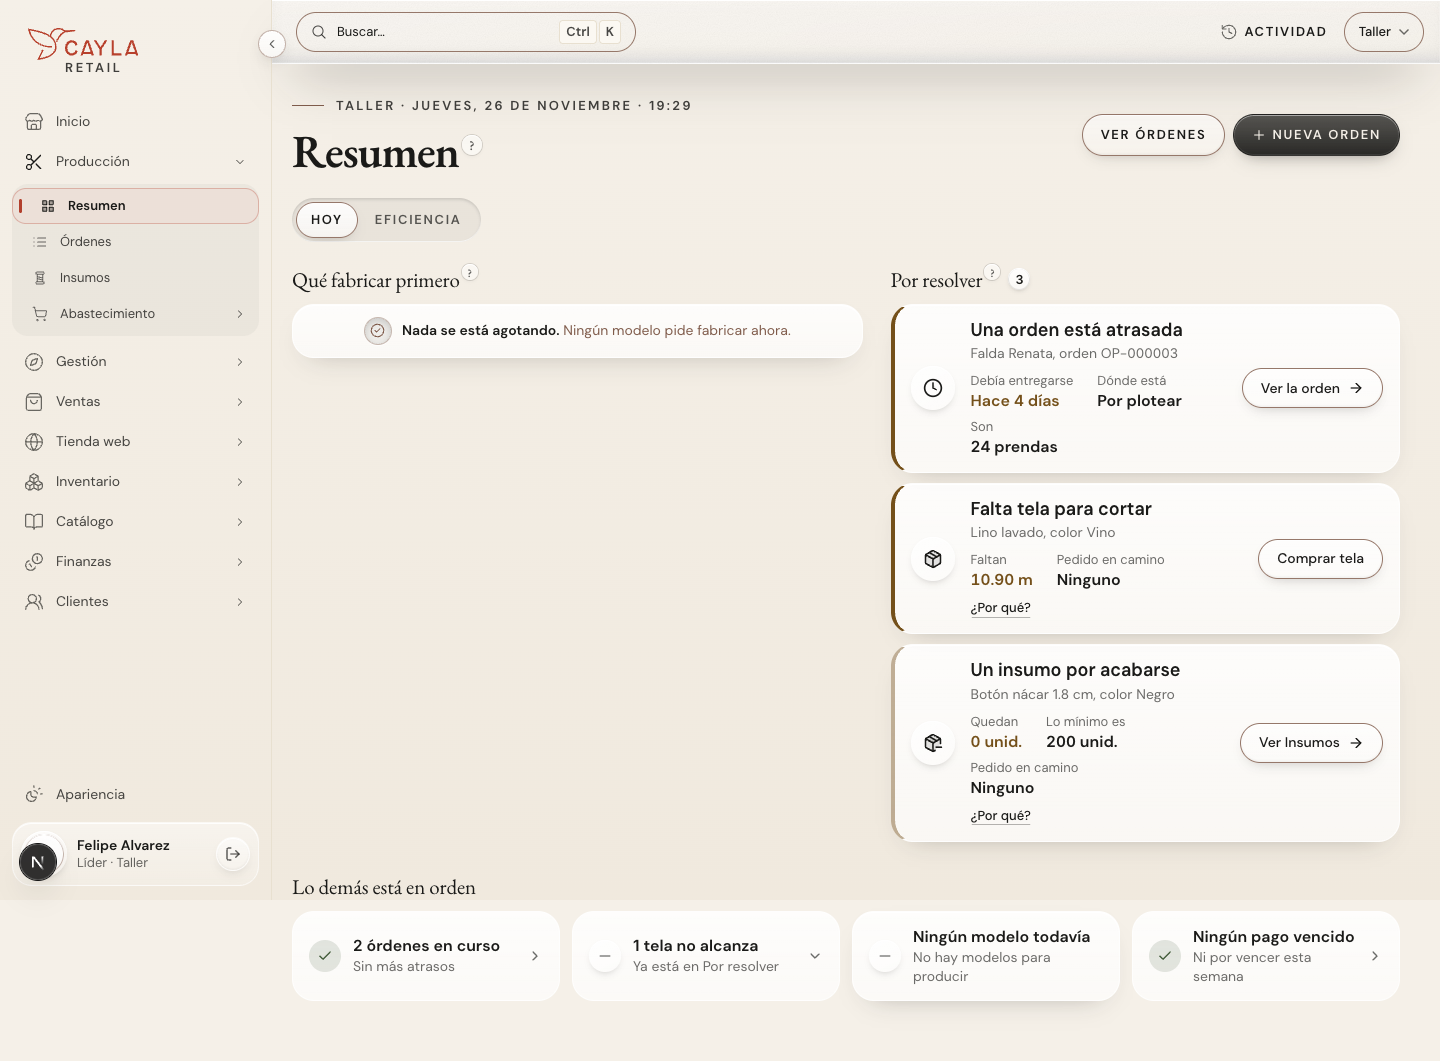
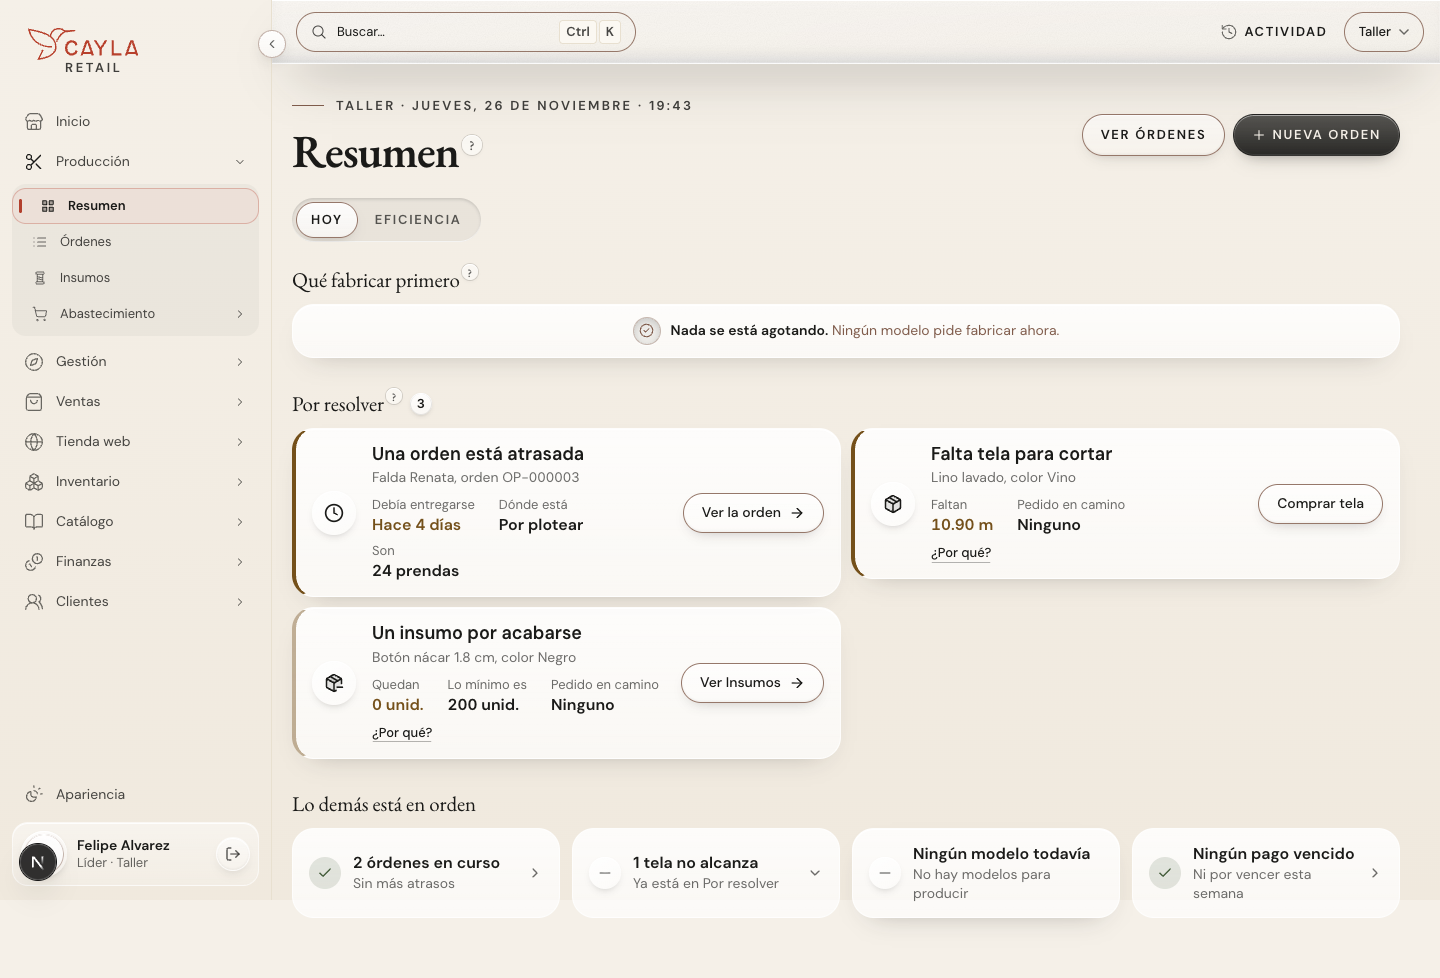
fix(produccion): el Resumen no deja un hueco cuando un bloque está vacío
Con «Qué fabricar primero» vacío y asuntos en «Por resolver» (o al revés), el aviso de una línea quedaba al lado de una columna alta.
Ahora los dos bloques comparten la fila solo si los dos tienen algo; si no, van uno bajo el otro y los asuntos se reparten de a dos.

diff --git a/apps/web/components/ResumenProduccionPanel.tsx b/apps/web/components/ResumenProduccionPanel.tsx
@@ -54,6 +54,9 @@ export function ResumenProduccionPanel({
   sede: string;
 }) {
   const primero = queFabricarPrimero(modelos);
+  // ¿Los dos bloques de acción tienen algo que mostrar? Solo entonces (o si ninguno tiene) comparten la fila.
+  const hayQueFabricar = primero.firmes.length > 0 || Boolean(falloRed);
+  const ladoALado = hayQueFabricar === decisiones.length > 0;
   // Los de «Producir ya» ya están en «Qué fabricar primero»: la tabla que se despliega es el resto del catálogo (llevar a tienda, vigilar, alcanza, hay de sobra, sin ventas).
   const resto = modelos.filter((m) => m.estado !== "producir_ya");
   const recuadros = recuadrosDeLoDemas({
@@ -98,9 +101,10 @@ export function ResumenProduccionPanel({
 
       {/* El cuerpo mira SU ancho (`@container`), no el de la ventana: con el menú abierto o plegado decide solo si los dos bloques de acción van lado a lado. */}
       <div className="@container space-y-8">
-        <div className="grid grid-cols-1 items-start gap-x-7 gap-y-8 @min-[56rem]:grid-cols-[minmax(0,1.12fr)_minmax(0,1fr)]">
+        {/* Lado a lado solo si los dos bloques tienen algo (o ninguno): con uno vacío, su aviso de una línea dejaba un hueco del alto del otro (Felipe 2026-11-26). Entonces van uno bajo el otro y el que tiene contenido usa todo el ancho. */}
+        <div className={`grid grid-cols-1 items-start gap-x-7 gap-y-8 ${ladoALado ? "@min-[56rem]:grid-cols-[minmax(0,1.12fr)_minmax(0,1fr)]" : ""}`}>
           <ListaQueFabricarPrimero datos={primero} falloRed={falloRed} nota={notaDeHistoria} presentaciones={presentaciones} hojas={hojas} />
-          <PorResolver decisiones={decisiones} ocultas={ocultas} totalAsuntos={totalAsuntos} hojas={hojas} presentaciones={presentaciones} />
+          <PorResolver decisiones={decisiones} ocultas={ocultas} totalAsuntos={totalAsuntos} hojas={hojas} presentaciones={presentaciones} aLoAncho={!ladoALado} />
         </div>
 
         <LoDemasEnOrden

diff --git a/apps/web/components/produccion-resumen/PorResolver.tsx b/apps/web/components/produccion-resumen/PorResolver.tsx
@@ -58,7 +58,10 @@ export function PorResolver({
   totalAsuntos,
   hojas,
   presentaciones,
+  aLoAncho = false,
 }: {
+  /** El bloque ocupa todo el ancho de la pantalla (cuando «Qué fabricar primero» no tiene nada): los asuntos van de a dos si caben. */
+  aLoAncho?: boolean;
   decisiones: Decision[];
   /** Los asuntos que no cupieron, por clase: nunca se cortan en silencio. */
   ocultas: DecisionesOcultas[];
@@ -81,7 +84,7 @@ export function PorResolver({
         </div>
       ) : (
         // La lista es el contenedor: cada tarjeta decide por SU ancho si el botón cabe al costado o baja a todo el ancho (la columna de dos, el celular).
-        <ul className="@container space-y-2.5">
+        <ul className={`@container ${aLoAncho ? "grid grid-cols-1 items-start gap-2.5 min-[90rem]:grid-cols-2" : "space-y-2.5"}`}>
           {decisiones.map((d, i) => {
             const Icono = ICONO[d.tipo];
             return (
